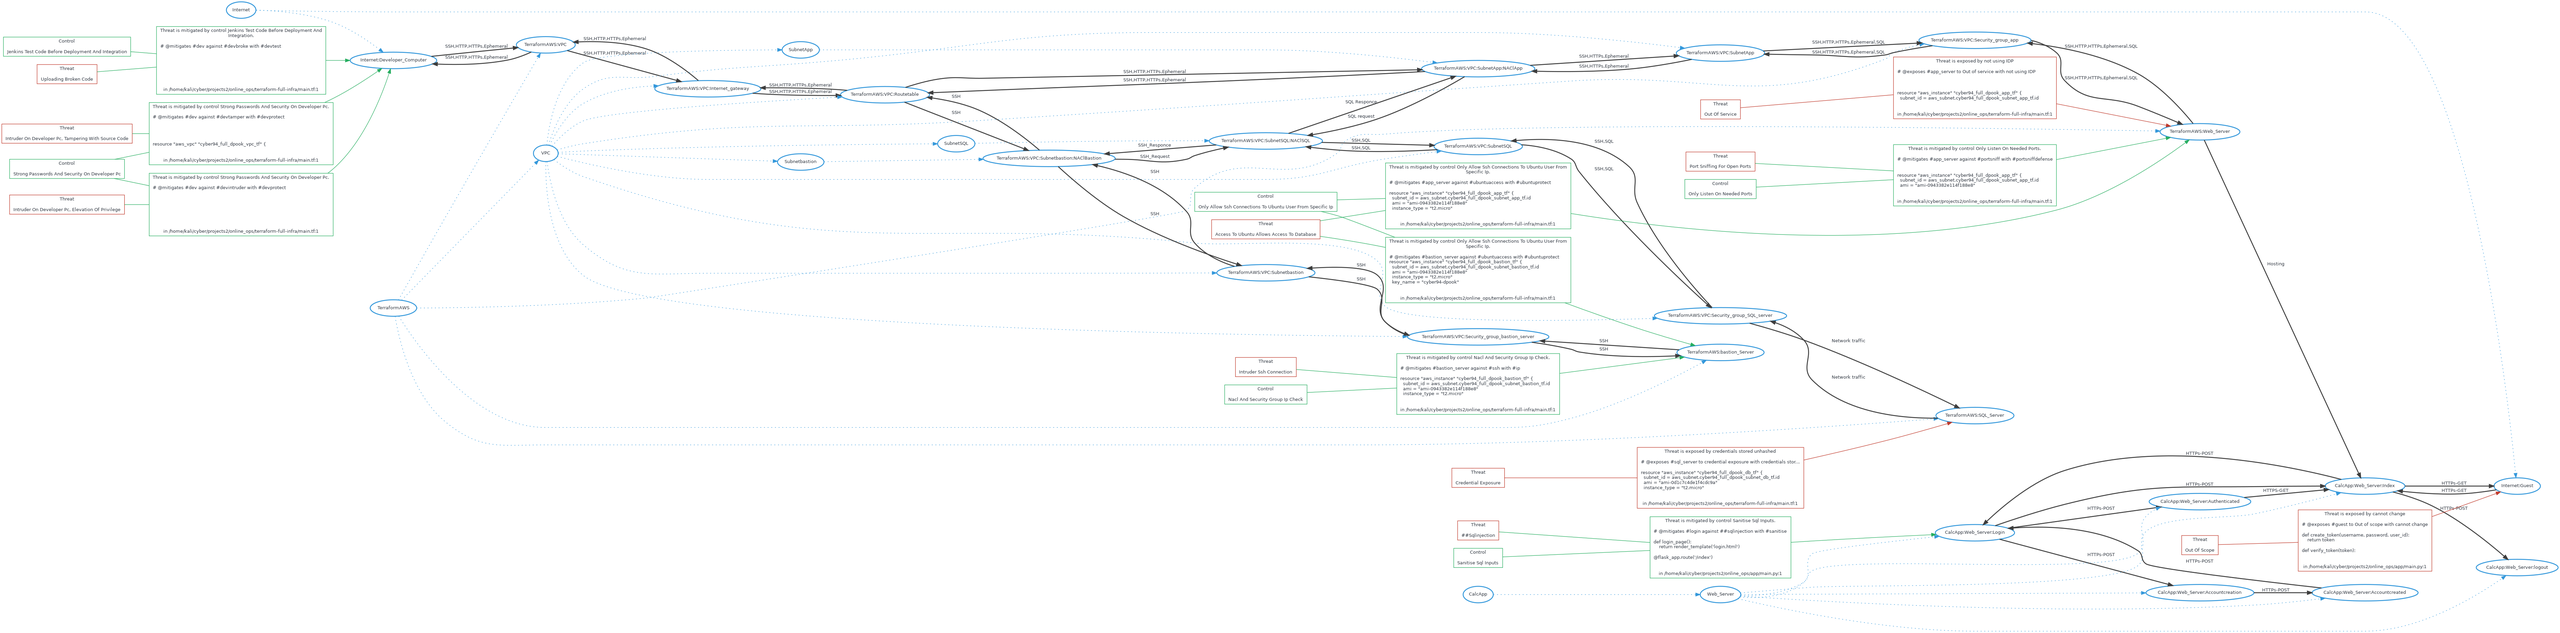
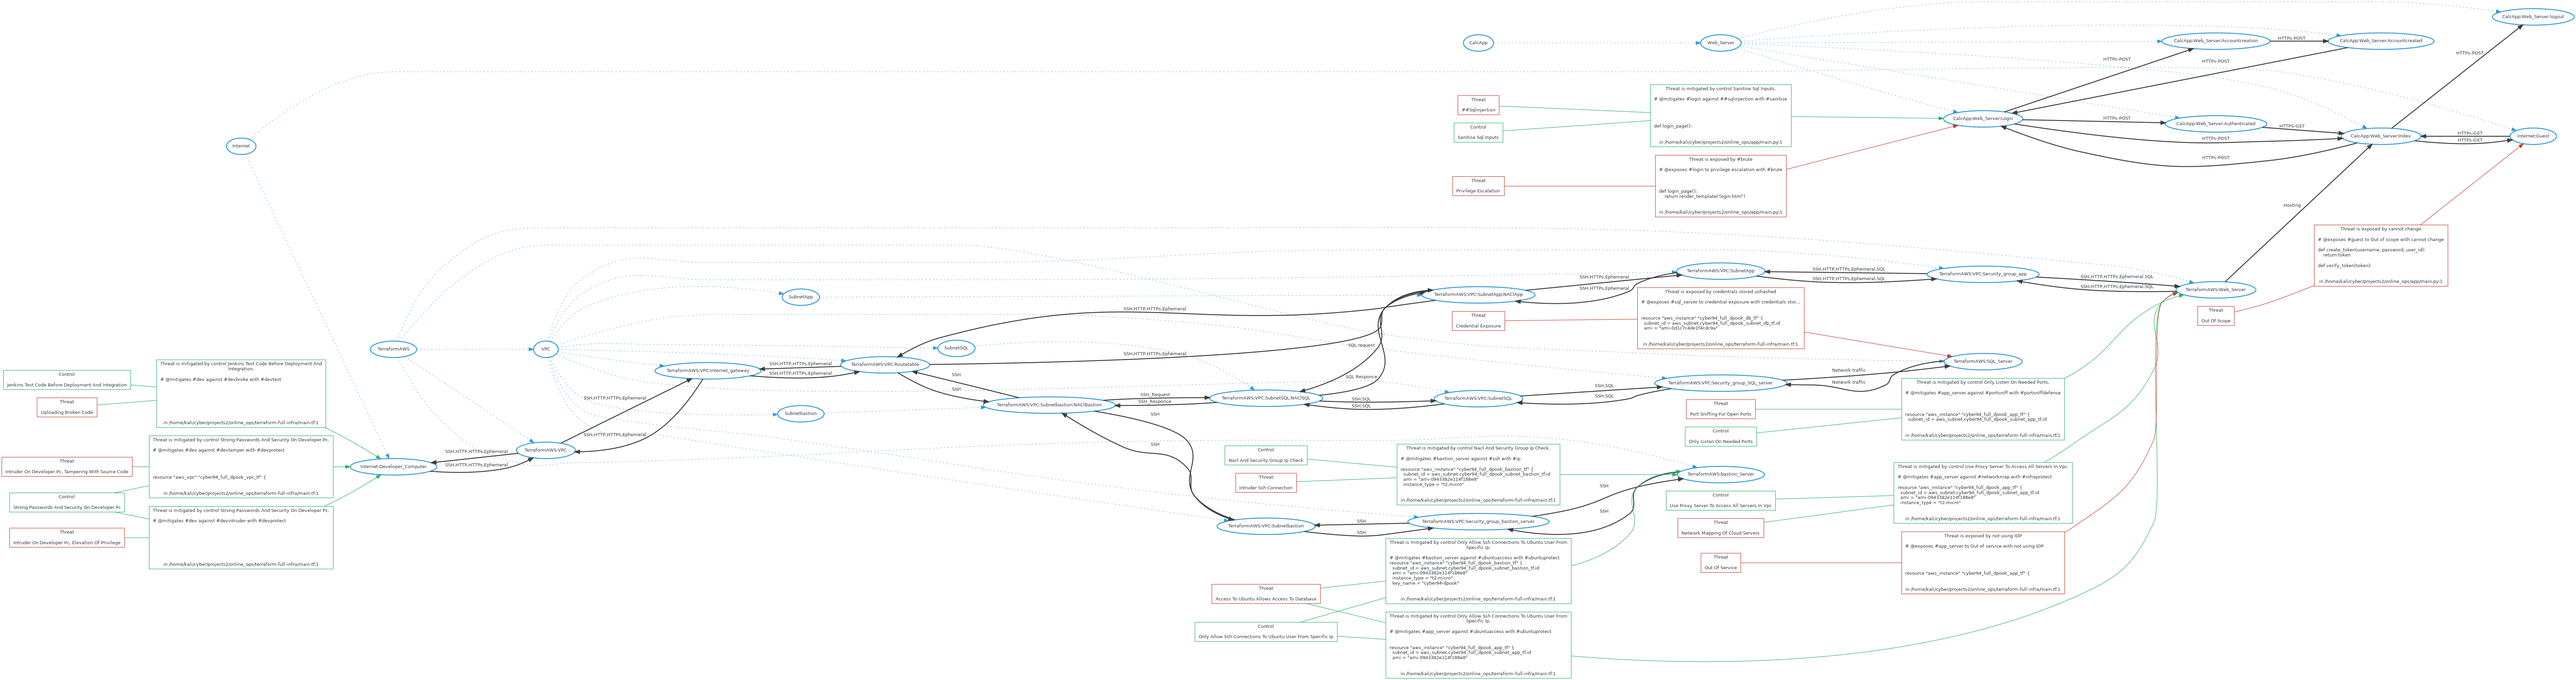
some minor changes, threatspec report update. Still adding

diff --git a/ThreatModel.md b/ThreatModel.md
@@ -24,6 +24,20 @@ def verify_token(token):
 ```
 /home/kali/cyber/projects2/online_ops/app/main.py:1
 
+## Privilege escalation against CalcApp:Web_Server:Login
+#brute
+
+```
+# @exposes #login to privilege escalation with #brute
+
+
+
+def login_page():
+    return render_template('login.html')
+
+```
+/home/kali/cyber/projects2/online_ops/app/main.py:1
+
 ## Out of service against TerraformAWS:Web_Server
 Not using idp
 
@@ -32,8 +46,8 @@ Not using idp
 
 
 
+
 resource "aws_instance" "cyber94_full_dpook_app_tf" {
-  subnet_id = aws_subnet.cyber94_full_dpook_subnet_app_tf.id
 
 ```
 /home/kali/cyber/projects2/online_ops/terraform-full-infra/main.tf:1
@@ -44,10 +58,10 @@ Credentials stored unhashed
 ```
 # @exposes #sql_server to credential exposure with credentials stored unhashed
 
+
 resource "aws_instance" "cyber94_full_dpook_db_tf" {
   subnet_id = aws_subnet.cyber94_full_dpook_subnet_db_tf.id
   ami = "ami-0d1c7c4de1f4cdc9a"
-  instance_type = "t2.micro"
 
 ```
 /home/kali/cyber/projects2/online_ops/terraform-full-infra/main.tf:1
@@ -67,10 +81,10 @@ resource "aws_instance" "cyber94_full_dpook_db_tf" {
 ```
 # @mitigates #login against ##sqlinjection with #sanitise
 
-def login_page():
-    return render_template('login.html')
 
-@flask_app.route('/index')
+
+
+def login_page():
 
 ```
 /home/kali/cyber/projects2/online_ops/app/main.py:1
@@ -124,9 +138,9 @@ resource "aws_vpc" "cyber94_full_dpook_vpc_tf" {
 # @mitigates #app_server against #portsniff with #portsniffdefense
 
 
+
 resource "aws_instance" "cyber94_full_dpook_app_tf" {
   subnet_id = aws_subnet.cyber94_full_dpook_subnet_app_tf.id
-  ami = "ami-0943382e114f188e8"
 
 ```
 /home/kali/cyber/projects2/online_ops/terraform-full-infra/main.tf:1
@@ -136,6 +150,20 @@ resource "aws_instance" "cyber94_full_dpook_app_tf" {
 
 ```
 # @mitigates #app_server against #ubuntuaccess with #ubuntuprotect
+
+
+resource "aws_instance" "cyber94_full_dpook_app_tf" {
+  subnet_id = aws_subnet.cyber94_full_dpook_subnet_app_tf.id
+  ami = "ami-0943382e114f188e8"
+
+```
+/home/kali/cyber/projects2/online_ops/terraform-full-infra/main.tf:1
+
+## Network mapping of cloud servers against TerraformAWS:Web_Server mitigated by Use proxy server to access all servers in vpc
+
+
+```
+# @mitigates #app_server against #networkmap with #infraprotect
 
 resource "aws_instance" "cyber94_full_dpook_app_tf" {
   subnet_id = aws_subnet.cyber94_full_dpook_subnet_app_tf.id
@@ -229,8 +257,8 @@ HTTPs-POST
 
 
 
-def login_page():
-    return render_template('login.html')
+
+
 
 ```
 /home/kali/cyber/projects2/online_ops/app/main.py:1
@@ -243,8 +271,8 @@ HTTPs-POST
 
 
 
-def login_page():
-    return render_template('login.html')
+
+
 
 ```
 /home/kali/cyber/projects2/online_ops/app/main.py:1
@@ -691,8 +719,8 @@ Network traffic
 
 
 
+
 resource "aws_instance" "cyber94_full_dpook_db_tf" {
-  subnet_id = aws_subnet.cyber94_full_dpook_subnet_db_tf.id
 
 ```
 /home/kali/cyber/projects2/online_ops/terraform-full-infra/main.tf:1
@@ -705,8 +733,8 @@ Network traffic
 
 
 
+
 resource "aws_instance" "cyber94_full_dpook_db_tf" {
-  subnet_id = aws_subnet.cyber94_full_dpook_subnet_db_tf.id
 
 ```
 /home/kali/cyber/projects2/online_ops/terraform-full-infra/main.tf:1
@@ -718,9 +746,9 @@ SSH_Responce
 # @connects #naclsql to #naclbastion with SSH_Responce
 
 
+
 resource "aws_instance" "cyber94_full_dpook_db_tf" {
   subnet_id = aws_subnet.cyber94_full_dpook_subnet_db_tf.id
-  ami = "ami-0d1c7c4de1f4cdc9a"
 
 ```
 /home/kali/cyber/projects2/online_ops/terraform-full-infra/main.tf:1
@@ -732,9 +760,9 @@ SQL Responce
 # @connects #naclsql to #naclapp with SQL Responce
 
 
+
 resource "aws_instance" "cyber94_full_dpook_db_tf" {
   subnet_id = aws_subnet.cyber94_full_dpook_subnet_db_tf.id
-  ami = "ami-0d1c7c4de1f4cdc9a"
 
 ```
 /home/kali/cyber/projects2/online_ops/terraform-full-infra/main.tf:1
@@ -851,10 +879,16 @@ resource "aws_instance" "cyber94_full_dpook_bastion_tf" {
 ## Access to ubuntu allows access to database
 
 
+## Network mapping of cloud servers
+
+
 ## Intruder ssh connection
 
 
 ## Out of scope
+
+
+## Privilege escalation
 
 
 ## Out of service
@@ -875,5 +909,7 @@ resource "aws_instance" "cyber94_full_dpook_bastion_tf" {
 ## Only listen on needed ports
 
 ## Only allow ssh connections to ubuntu user from specific ip
+
+## Use proxy server to access all servers in vpc
 
 ## Nacl and security group ip check
